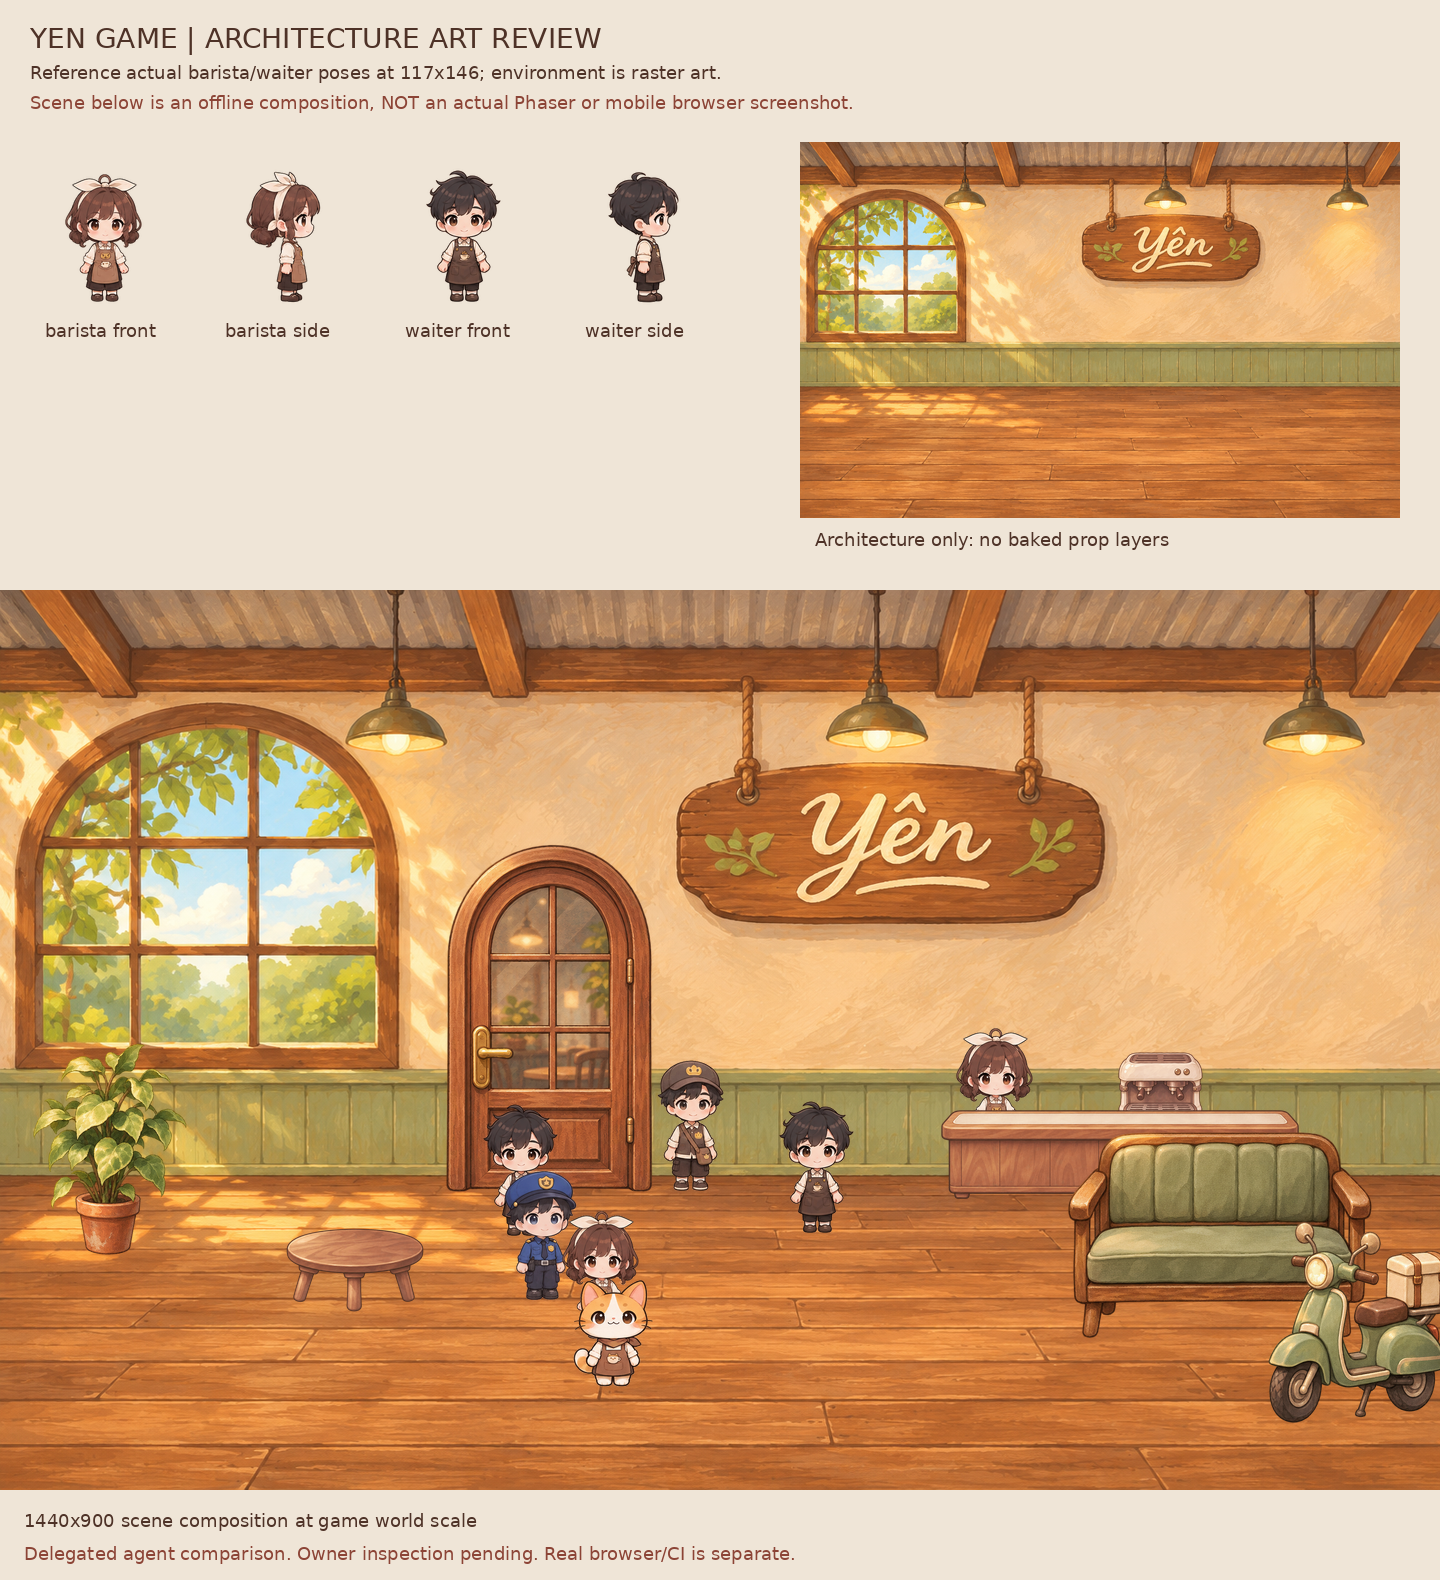
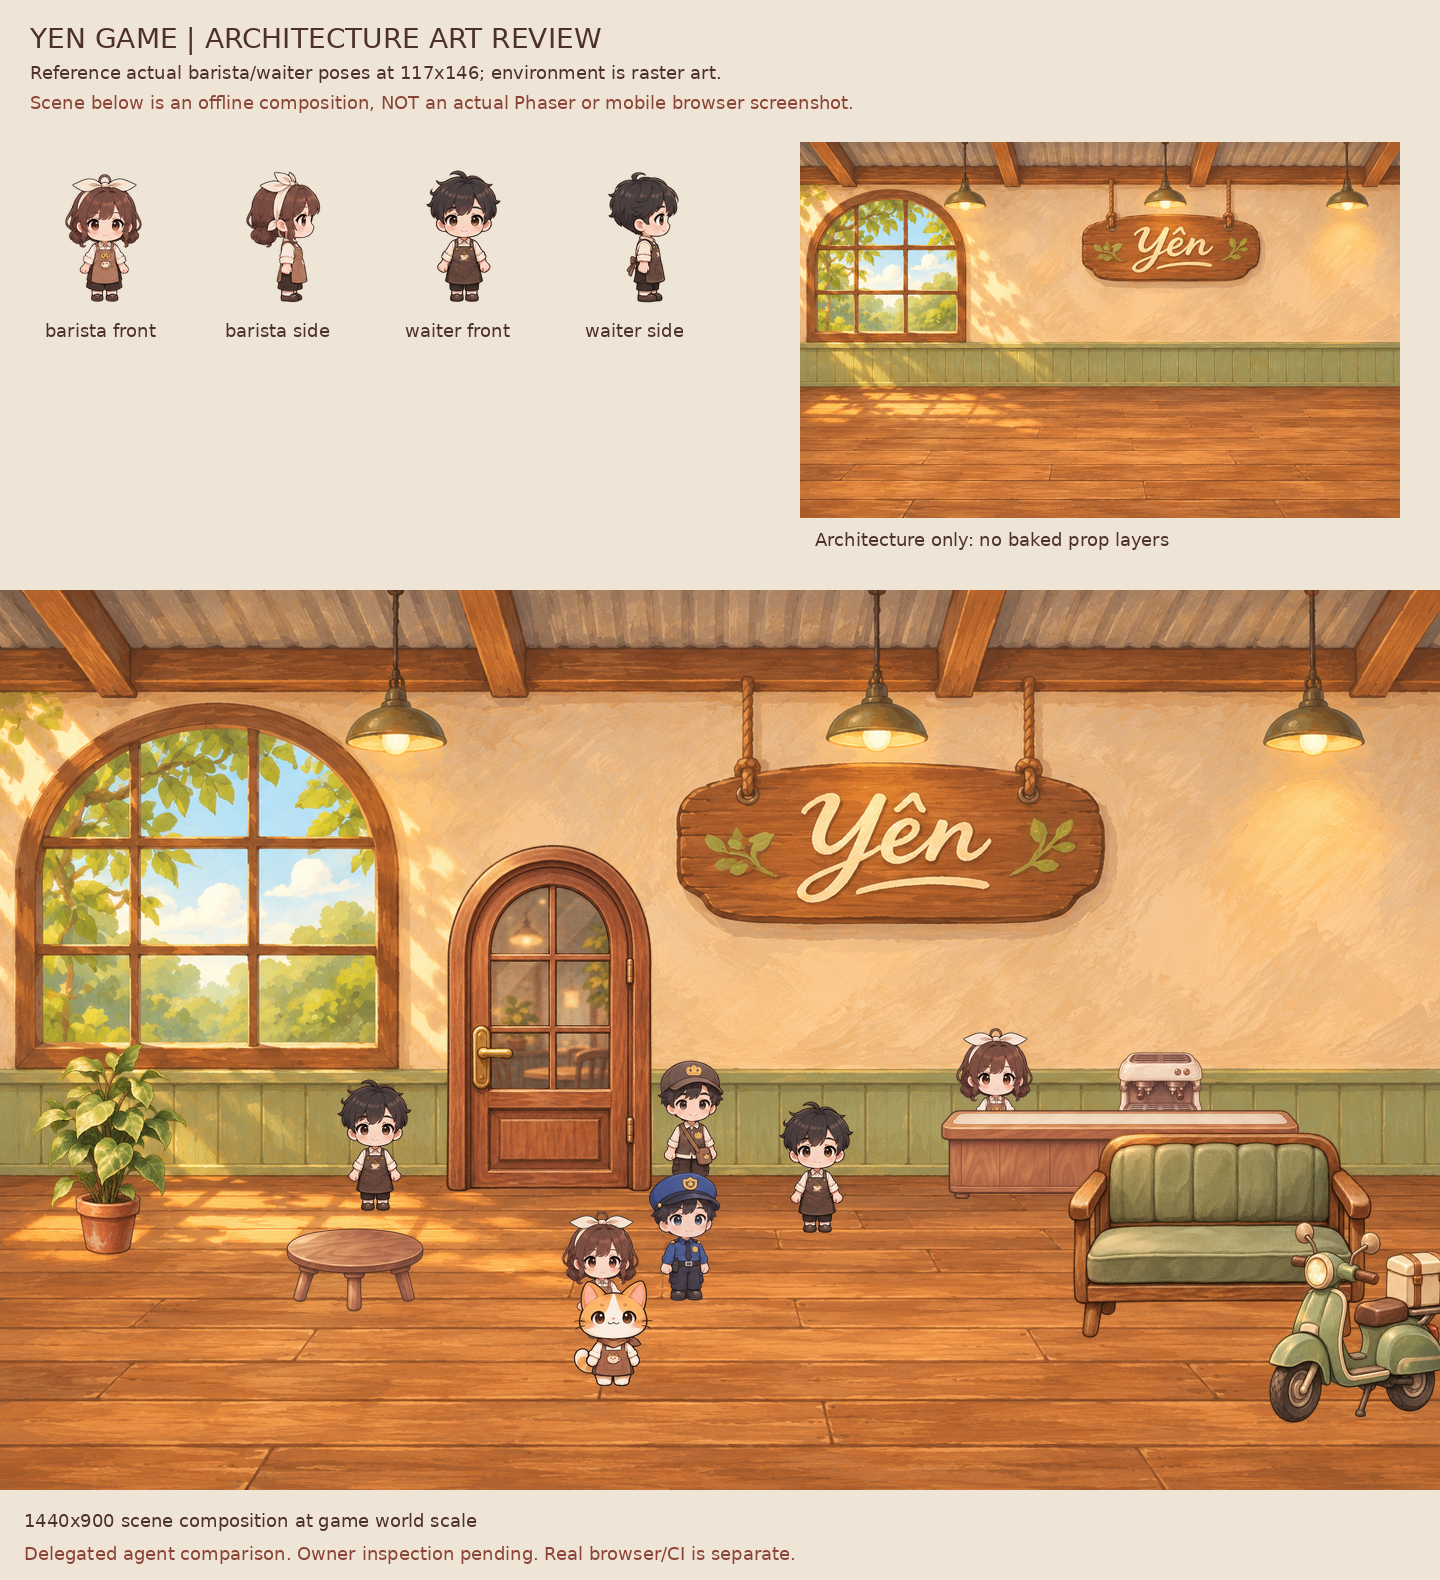
fix(game): decongest doorway NPC blocking and label overlaps in mobile scene

Changed region(s): [[0.3438, 0.6823, 0.4062, 0.8373], [0.4375, 0.7443, 0.5, 0.8373], [0.2188, 0.6823, 0.2812, 0.7753]]

diff --git a/game/preview-2d/game.js b/game/preview-2d/game.js
@@ -53,24 +53,24 @@ const stations={
  plant:{x:190,y:613,label:'Chậu cây'}
 };
 const npcs=[
- {id:'reader',role:'reader',x:520,y:650,name:'Khách đọc sách',lines:['Mình vừa đọc tới chương... cái bìa.','Một trang sách và một ly nước. Tạm đủ.']},
+ {id:'reader',role:'reader',x:375,y:625,name:'Khách đọc sách',lines:['Mình vừa đọc tới chương... cái bìa.','Một trang sách và một ly nước. Tạm đủ.']},
  {id:'guest',role:'guest',x:690,y:605,name:'Khách chờ bạn',lines:['Bạn mình bảo năm phút nữa tới.','Mình gọi trước một ly. Kẻ đến sau tự tính.']},
- {id:'guard',role:'guard',x:535,y:714,name:'Chú bảo vệ',lines:['Để xe ngay ngắn là quán đã yên một nửa.','Mèo Mướp trông ghế, tôi trông cửa.']},
+ {id:'guard',role:'guard',x:685,y:715,name:'Chú bảo vệ',lines:['Để xe ngay ngắn là quán đã yên một nửa.','Mèo Mướp trông ghế, tôi trông cửa.']},
  {id:'barista',role:'barista',x:995,y:570,name:'Bạn pha chế',lines:['Nước ngon cần chút kiên nhẫn.','Máy pha cà phê hôm nay khá dễ bảo.']},
  {id:'waiter',role:'waiter',x:817,y:647,name:'Bạn phục vụ',lines:['Ngồi đâu cũng được, trừ quầy pha chế.','Để mình dọn lại bàn nhé.']},
  {id:'cat',role:'cat',x:613,y:802,name:'Mèo Mướp',lines:['Meo. (Mướp vừa đồng ý.)','Meo. (Mướp vừa đổi ý.)']}
 ];
 // NPC routes remain on the walkable floor, with deliberate pauses at each stop.
 const NPC_ROUTINES={
- reader:[{x:520,y:650,wait:9,action:true,activity:'Đang nghỉ cạnh bàn sách',destination:'bàn sách'},
-  {x:618,y:745,wait:5,activity:'Đang đi dạo một chút',destination:'lối đi'},
-  {x:520,y:650,wait:11,action:true,activity:'Vừa quay lại bàn sách',destination:'bàn sách'}],
+ reader:[{x:375,y:625,wait:9,action:true,activity:'Đang nghỉ cạnh bàn sách',destination:'bàn sách'},
+  {x:480,y:745,wait:5,activity:'Đang đi dạo một chút',destination:'lối đi'},
+  {x:375,y:625,wait:11,action:true,activity:'Vừa quay lại bàn sách',destination:'bàn sách'}],
  guest:[{x:690,y:605,wait:5,activity:'Đang chờ bạn ở gần quầy',destination:'gần quầy'},
   {x:751,y:701,wait:7,action:true,activity:'Đang nhìn ra lối vào',destination:'lối vào'},
   {x:690,y:605,wait:4,activity:'Đang chờ bạn quay lại',destination:'gần quầy'}],
- guard:[{x:535,y:714,wait:6,action:true,activity:'Đang đón khách',destination:'cửa quán'},
-  {x:620,y:760,wait:4,activity:'Đang kiểm tra lối đi',destination:'lối đi'},
-  {x:540,y:718,wait:7,action:true,activity:'Đã quay lại cửa quán',destination:'cửa quán'}],
+ guard:[{x:685,y:715,wait:6,action:true,activity:'Đang đón khách',destination:'cửa quán'},
+  {x:750,y:760,wait:4,activity:'Đang kiểm tra lối đi',destination:'lối đi'},
+  {x:687,y:718,wait:7,action:true,activity:'Đã quay lại cửa quán',destination:'cửa quán'}],
  barista:[{x:995,y:570,wait:7,action:true,activity:'Đang trực quầy pha chế',destination:'quầy pha chế'}],
  waiter:[{x:817,y:647,wait:4,action:true,activity:'Đang chờ nước từ quầy',destination:'quầy nước'},
   {x:932,y:729,wait:5,action:true,activity:'Đang kiểm tra khu ghế ngồi',destination:'khu ghế ngồi'},
